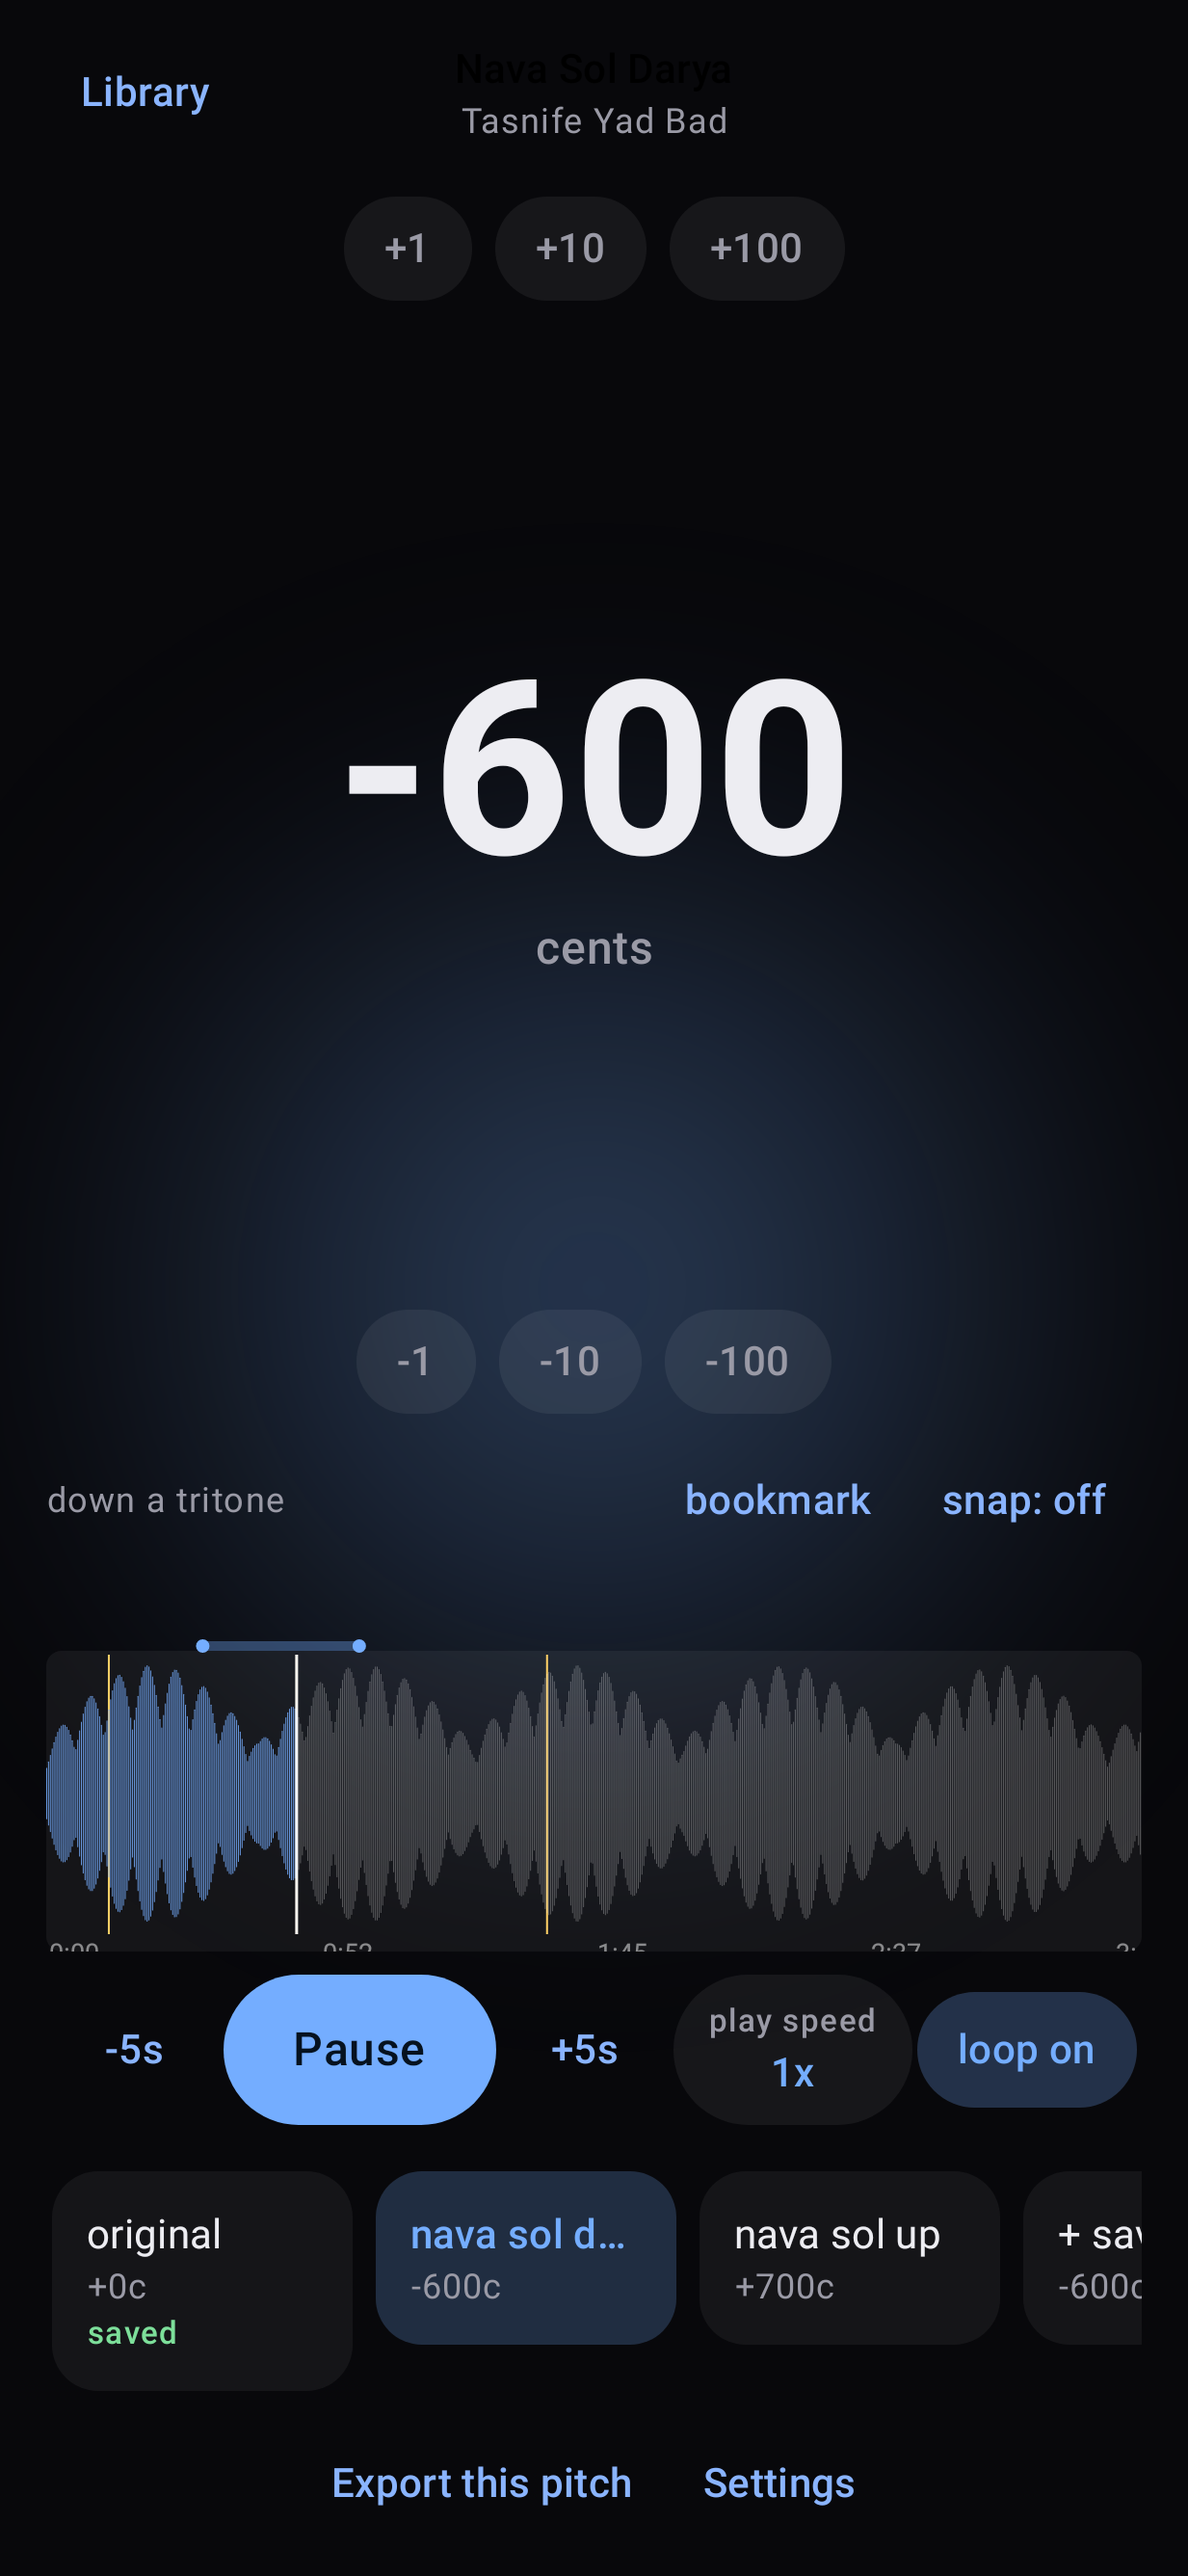
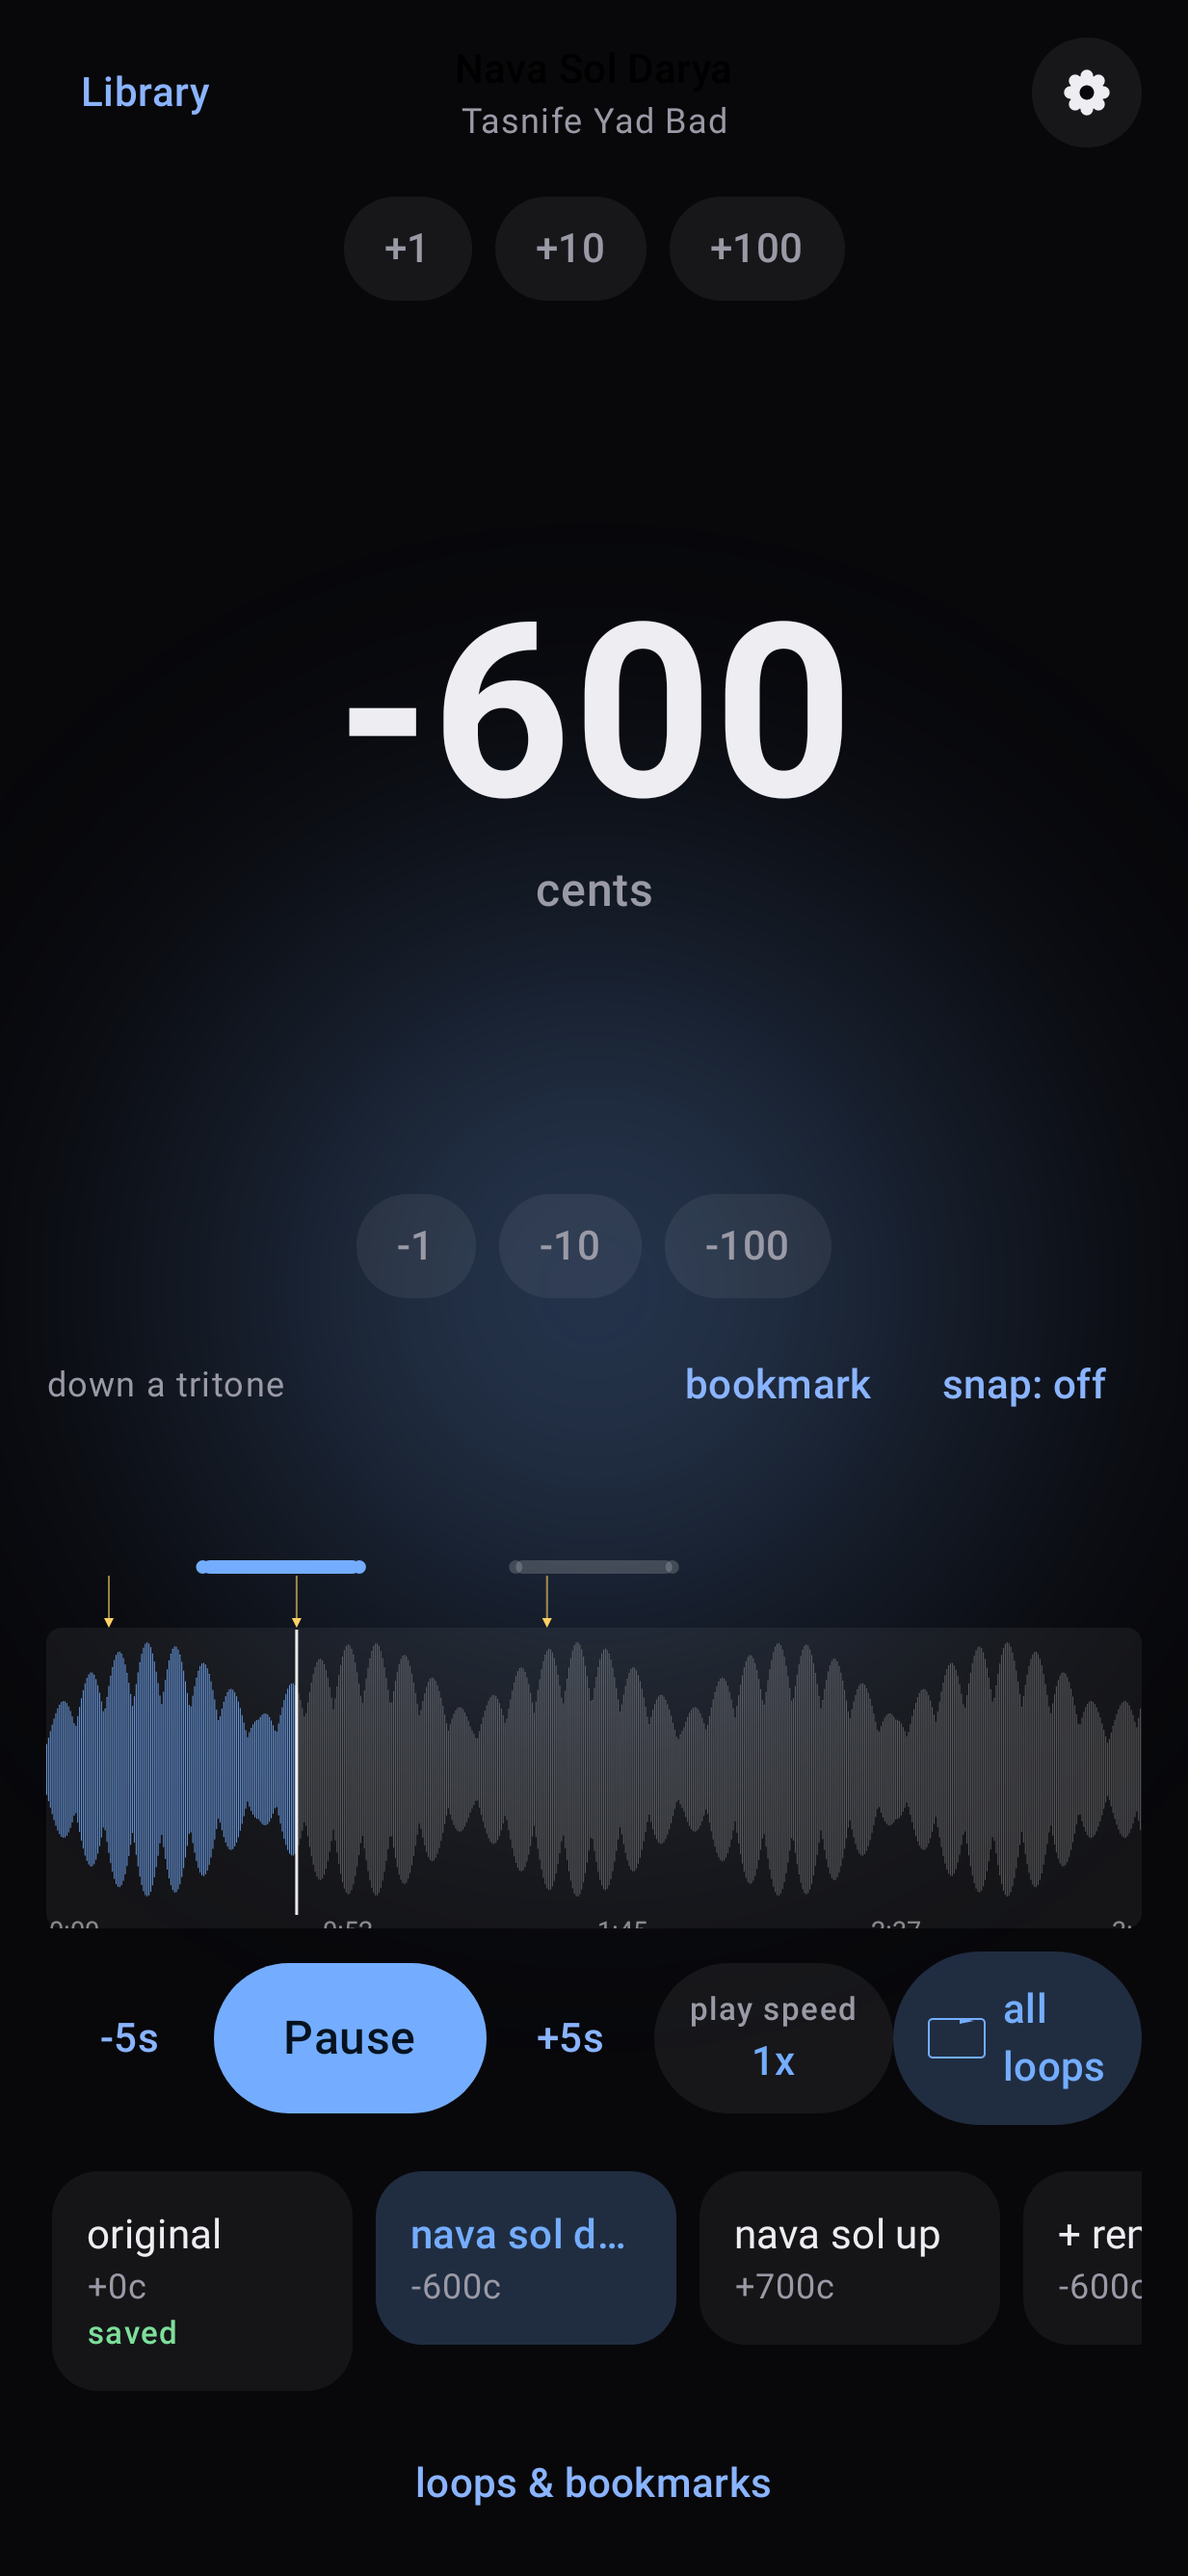
Release 2.5.0
Bumps versionCode to 6 and versionName to 2.5.0, adds the changelog and the
Play changelog, refreshes the store and site screenshots to the new studio,
drops the classic shots, and removes the classic interface from the docs and
plans. The site gallery now shows only the modern Studio.

diff --git a/site/index.html b/site/index.html
@@ -192,8 +192,8 @@
         </div>
         <div class="shots phones">
           <figure>
-            <img src="assets/android/modern-studio.png" width="1233" height="2673" loading="lazy" decoding="async" alt="Modern studio with the full-screen pitch pad" />
-            <figcaption>Studio: pitch by gesture, with a live cents readout</figcaption>
+            <img src="assets/android/modern-studio.png" width="1233" height="2673" loading="lazy" decoding="async" alt="Modern studio with the full-screen pitch pad, loop lane, and pitch shelf" />
+            <figcaption>Studio: pitch by gesture, with loops and bookmarks</figcaption>
           </figure>
           <figure>
             <img src="assets/android/modern-guide.png" width="1233" height="2673" loading="lazy" decoding="async" alt="The guided tour on first launch" />
@@ -202,18 +202,6 @@
           <figure>
             <img src="assets/android/modern-library.png" width="1233" height="2673" loading="lazy" decoding="async" alt="Library with imported songs" />
             <figcaption>Library: import, open, and manage your songs</figcaption>
-          </figure>
-          <figure>
-            <img src="assets/android/03-pitch-lab.png" width="1233" height="4200" loading="lazy" decoding="async" alt="Classic pitch lab with the vertical fader and format chips" />
-            <figcaption>Classic Pitch Lab: fader, presets, export</figcaption>
-          </figure>
-          <figure>
-            <img src="assets/android/02-player.png" width="1233" height="2673" loading="lazy" decoding="async" alt="Classic player with waveform, speed, loop, and bookmarks" />
-            <figcaption>Classic player: waveform, speed, loop, bookmarks</figcaption>
-          </figure>
-          <figure>
-            <img src="assets/android/04-tuner.png" width="1233" height="2673" loading="lazy" decoding="async" alt="Tuner with the detected note and target" />
-            <figcaption>Tuner: detect the note, or type a note or Hz</figcaption>
           </figure>
         </div>
         <div class="cta" style="margin-top: 28px">

diff --git a/android/CHANGELOG.md b/android/CHANGELOG.md
@@ -1,5 +1,32 @@
 # Changelog
 
+## 2.5.0
+
+A rebuilt pitch gesture, a real timeline, and a single render flow. The classic
+interface is gone; the touch-first Studio is now the only one.
+
+- Rebuilt pitch gesture: vertical, no absolute scale. The rate follows how fast
+  you move (slow is fine, fast is coarse), the first few pixels are extra fine,
+  and a flick keeps going and slows down until you catch it. Snap rounds on a
+  light 20-cent grid with a stronger pull to semitones.
+- The song chart holds multiple loops and bookmarks. Drag the wider lane to make
+  a loop, long-press a loop edge or a bookmark pin to fine-tune it with a
+  timestamp that follows your thumb. Tap the wave to seek, drag to pan when
+  zoomed, long-press and drag to scrub, pinch to zoom.
+- Loops and bookmarks have a drawer to rename, delete, enable, and select. Each
+  loop can be toggled off, and a Spotify-style repeat button cycles whole song,
+  all loops, or one loop.
+- Renders concatenate the enabled loops with hard cuts into one file.
+- One render sheet: the save address (tap to choose a folder for the song), an
+  editable file name with a non-editable extension token and an always-open
+  format strip, Save file and Share, and a cancel.
+- A default save folder in Settings, with a per-song override.
+- The tuner is a modal now (long-press the readout): keep a source and target
+  note, detected at the playhead or a bookmark or typed, and apply the interval
+  to the slider. It remembers the last notes per song.
+- Settings is a floating gear; haptics can be turned off.
+- The classic interface and the interface switch are removed.
+
 ## 2.0.1
 
 A guided tour, cancellable renders, and a round of gesture and control fixes.

diff --git a/AGENTS.md b/AGENTS.md
@@ -23,8 +23,9 @@ decisions. Summary of the chosen stack:
   native Kotlin + Compose, offline-only, no downloaders.
 - The Android v2 redesign (touch-first, full-screen pitch gesture) is planned in
   [docs/ANDROID_V2_PLAN.md](docs/ANDROID_V2_PLAN.md) and built in `ui/modern/`.
-  The v1 screens live in `ui/classic/` and are kept as a fallback; a UiStyle
-  preference switches between them and both share the view model and engine.
+- The Android 2.5 rework (rebuilt gesture, loops and bookmarks timeline, unified
+  render sheet, tuner modal) is in [docs/ANDROID_V3_PLAN.md](docs/ANDROID_V3_PLAN.md).
+  The classic interface was removed; the modern Studio is the only one.
 
 ## Layout
 
@@ -37,6 +38,7 @@ site/                  static project site (GitHub Pages): landing + web UI guid
 docs/PLAN.md           the plan
 docs/ANDROID_PLAN.md   the Android app plan
 docs/ANDROID_V2_PLAN.md  the Android v2 redesign plan
+docs/ANDROID_V3_PLAN.md  the Android 2.5 gesture/timeline/render plan
 docs/LEGALITY.md       source/ToS notes
 data/                  sqlite db + rendered variants (gitignored)
 android/core/          pure-Kotlin note math (ported from notes.rs), tested on JVM

diff --git a/android/README.md b/android/README.md
@@ -4,14 +4,14 @@ Native Kotlin + Jetpack Compose app for pitcher. Fully offline: no network
 permission, no bundled downloader. Import audio or video (audio only is kept),
 or share a file into pitcher from another app.
 
-The touch-first "modern" interface is the default. The earlier multi-screen
-interface is kept as a fallback and switchable in Settings; both share the same
-view model and engine. A short guided tour runs on first launch and can be
-replayed from Settings.
+The app is a single touch-first Studio. A short guided tour runs on first launch
+and can be replayed from Settings.
 
 See [../docs/ANDROID_PLAN.md](../docs/ANDROID_PLAN.md) for the original app
-design and [../docs/ANDROID_V2_PLAN.md](../docs/ANDROID_V2_PLAN.md) for the
-touch-first redesign.
+design, [../docs/ANDROID_V2_PLAN.md](../docs/ANDROID_V2_PLAN.md) for the
+touch-first redesign, and [../docs/ANDROID_V3_PLAN.md](../docs/ANDROID_V3_PLAN.md)
+for the 2.5 gesture, timeline, and render rework. The earlier multi-screen
+interface was removed in 2.5.
 
 ## Build
 

diff --git a/docs/ANDROID_V2_PLAN.md b/docs/ANDROID_V2_PLAN.md
@@ -1,10 +1,11 @@
 # pitcher for Android v2 — design plan
 
-> Status: shipped and iterated. The touch-first Studio is the default interface
-> (the v1 screens live in `android/app/.../ui/classic/` as a fallback), and a
-> guided tour was added on top of this plan. A few details changed during the
-> build and are marked inline: Material 3 Expressive was not usable, the speed
-> and loop controls took simpler forms, and the view model was not split.
+> Status: shipped and iterated. The touch-first Studio is the interface, and a
+> guided tour was added on top of this plan. The v1 multi-screen screens were
+> removed in 2.5; see [ANDROID_V3_PLAN.md](ANDROID_V3_PLAN.md). A few details
+> changed during the build and are marked inline: Material 3 Expressive was not
+> usable, the speed and loop controls took simpler forms, and the view model was
+> not split.
 
 A complete visual and interaction redesign of the mobile app. This document is
 design-first: it defines the vision, the screens, and the gestures before any

diff --git a/docs/ANDROID_PLAN.md b/docs/ANDROID_PLAN.md
@@ -1,10 +1,10 @@
 # Pitcher for Android — Plan (v1)
 
-> Status: shipped. The UI was later redesigned; see
-> [ANDROID_V2_PLAN.md](ANDROID_V2_PLAN.md). The v1 multi-screen interface lives
-> in `android/app/.../ui/classic/` and is kept as a fallback, switchable in
-> Settings. Two corrections inline: offline renders use the in-app WSOLA shifter
-> (not TarsosDSP), and screen-on uses the window keep-screen-on flag.
+> Status: shipped, then superseded. The UI was redesigned in
+> [ANDROID_V2_PLAN.md](ANDROID_V2_PLAN.md), and the multi-screen interface was
+> removed entirely in 2.5 ([ANDROID_V3_PLAN.md](ANDROID_V3_PLAN.md)). Two
+> corrections inline: offline renders use the in-app WSOLA shifter (not
+> TarsosDSP), and screen-on uses the window keep-screen-on flag.
 
 Independent native Android app. No downloading, no streaming, no server: the user
 picks an audio or video file already on the device and gets the full pitcher

diff --git a/README.md b/README.md
@@ -62,11 +62,10 @@ a note tuner with manual override, and a variant shelf.
 ## Android
 
 A separate native Kotlin + Jetpack Compose app, fully offline (no network
-permission, no bundled downloader). The touch-first "modern" interface is the
-default, with the earlier multi-screen interface kept as a fallback; both share
-the same engine and view model. A short guided tour runs on first launch and can
-be replayed from Settings. See [android/README.md](android/README.md) and
-[docs/ANDROID_V2_PLAN.md](docs/ANDROID_V2_PLAN.md).
+permission, no bundled downloader). The touch-first Studio is the whole app. A
+short guided tour runs on first launch and can be replayed from Settings. See
+[android/README.md](android/README.md) and
+[docs/ANDROID_V3_PLAN.md](docs/ANDROID_V3_PLAN.md).
 
 ## Tests
 

diff --git a/docs/ANDROID_V3_PLAN.md b/docs/ANDROID_V3_PLAN.md
@@ -1,8 +1,8 @@
 # pitcher for Android - Studio, timeline, and render rewrite (release 2.5)
 
-Status: planning. Not implemented. This pulls together the decisions from the
-planning discussion and supersedes the v2 plan wherever they differ. The v2
-"classic" interface is removed in this release.
+Status: shipped in 2.5.0. This pulls together the decisions from the planning
+discussion and supersedes the v2 plan wherever they differ. The v2 "classic"
+interface is removed in this release.
 
 ## Scope
 
